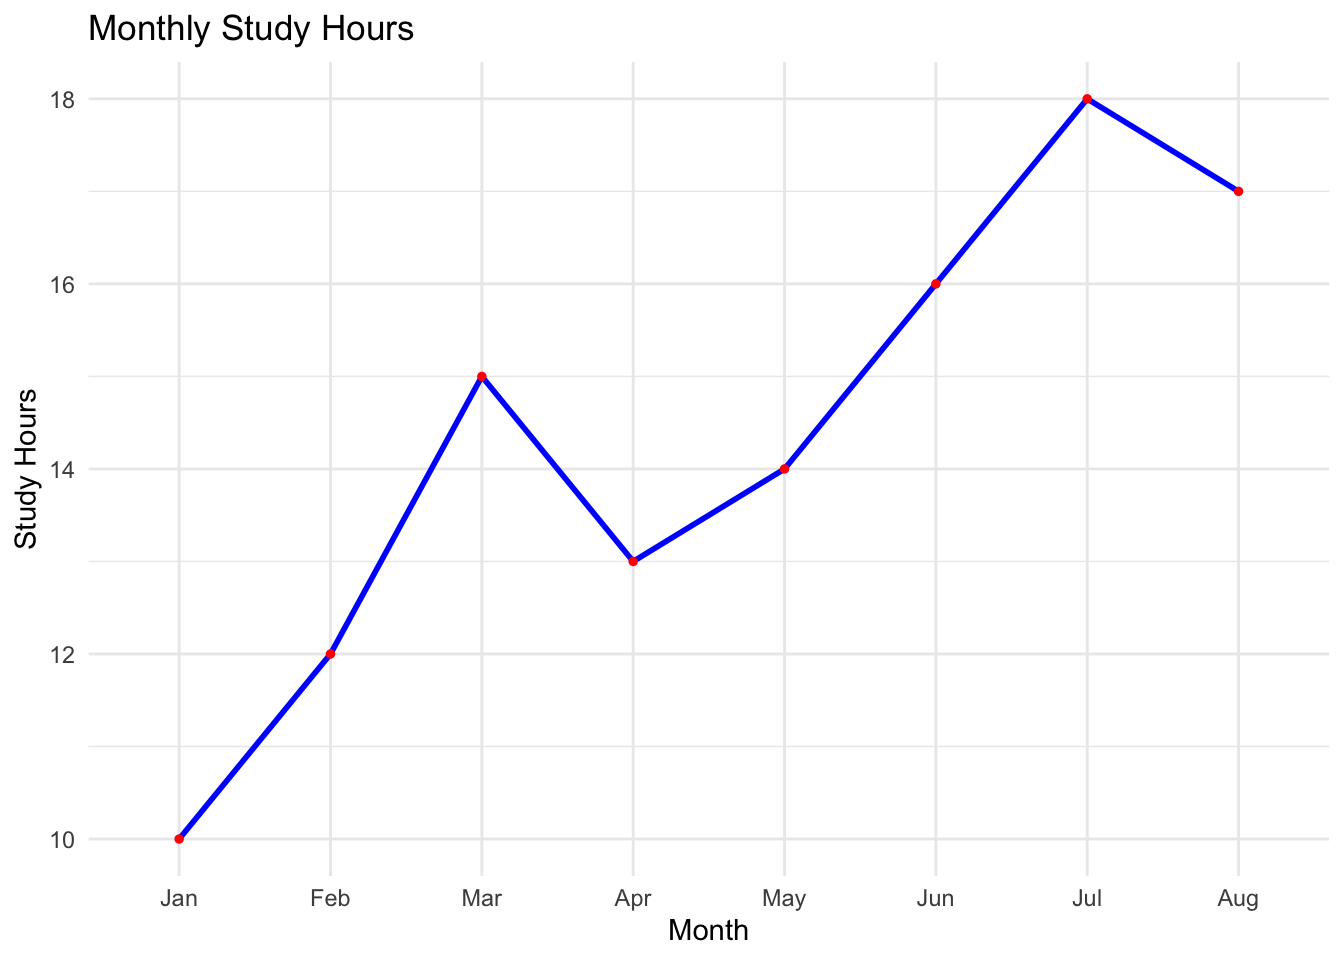
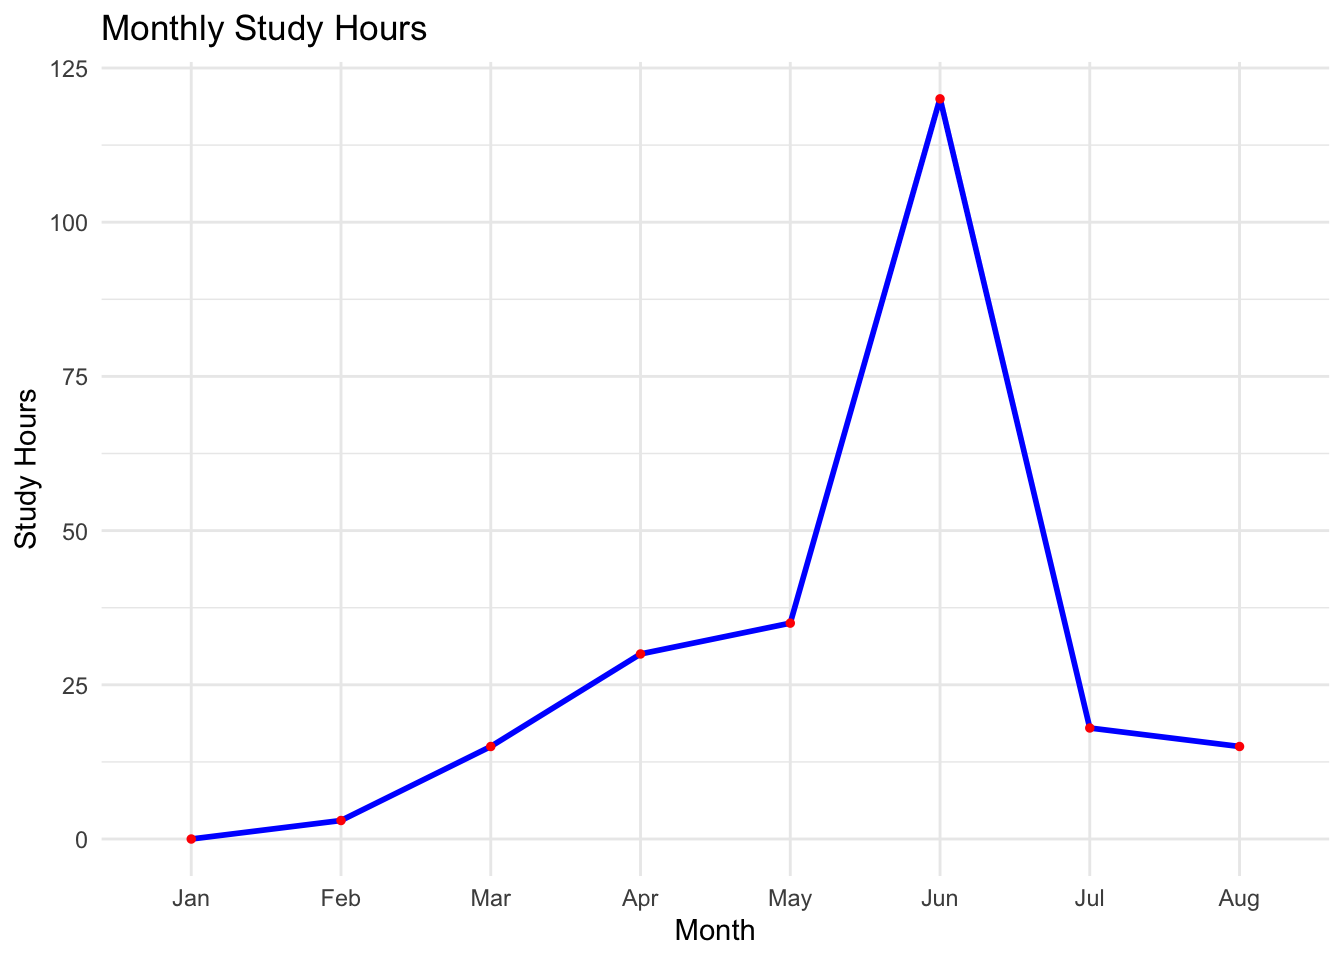
improved example

diff --git a/docs/content/01-content.html b/docs/content/01-content.html
@@ -1424,7 +1424,7 @@ RStudio Workflow Shortcuts
 <div class="cell">
 <div class="sourceCode cell-code" id="cb130"><pre class="sourceCode r code-with-copy"><code class="sourceCode r"><span id="cb130-1"><a href="#cb130-1" aria-hidden="true" tabindex="-1"></a><span class="co"># simulate monthly study hours</span></span>
 <span id="cb130-2"><a href="#cb130-2" aria-hidden="true" tabindex="-1"></a>months <span class="ot">&lt;-</span> <span class="fu">factor</span>(month.abb[<span class="dv">1</span><span class="sc">:</span><span class="dv">8</span>], <span class="at">levels =</span> month.abb[<span class="dv">1</span><span class="sc">:</span><span class="dv">8</span>])</span>
-<span id="cb130-3"><a href="#cb130-3" aria-hidden="true" tabindex="-1"></a>study_hours <span class="ot">&lt;-</span> <span class="fu">c</span>(<span class="dv">10</span>, <span class="dv">12</span>, <span class="dv">15</span>, <span class="dv">13</span>, <span class="dv">14</span>, <span class="dv">16</span>, <span class="dv">18</span>, <span class="dv">17</span>)</span>
+<span id="cb130-3"><a href="#cb130-3" aria-hidden="true" tabindex="-1"></a>study_hours <span class="ot">&lt;-</span> <span class="fu">c</span>(<span class="dv">0</span>, <span class="dv">3</span>, <span class="dv">15</span>, <span class="dv">30</span>, <span class="dv">35</span>, <span class="dv">120</span>, <span class="dv">18</span>, <span class="dv">15</span>)</span>
 <span id="cb130-4"><a href="#cb130-4" aria-hidden="true" tabindex="-1"></a></span>
 <span id="cb130-5"><a href="#cb130-5" aria-hidden="true" tabindex="-1"></a><span class="co"># make data frame</span></span>
 <span id="cb130-6"><a href="#cb130-6" aria-hidden="true" tabindex="-1"></a>study_data <span class="ot">&lt;-</span> <span class="fu">data.frame</span>(<span class="at">Month =</span> months, <span class="at">Study_Hours =</span> study_hours)</span>
@@ -3231,7 +3231,7 @@ window.document.addEventListener("DOMContentLoaded", function (event) {
 <span id="cb173-978"><a href="#cb173-978" aria-hidden="true" tabindex="-1"></a><span class="in">```{r}</span></span>
 <span id="cb173-979"><a href="#cb173-979" aria-hidden="true" tabindex="-1"></a><span class="co"># simulate monthly study hours</span></span>
 <span id="cb173-980"><a href="#cb173-980" aria-hidden="true" tabindex="-1"></a>months <span class="ot">&lt;-</span> <span class="fu">factor</span>(month.abb[<span class="dv">1</span><span class="sc">:</span><span class="dv">8</span>], <span class="at">levels =</span> month.abb[<span class="dv">1</span><span class="sc">:</span><span class="dv">8</span>])</span>
-<span id="cb173-981"><a href="#cb173-981" aria-hidden="true" tabindex="-1"></a>study_hours <span class="ot">&lt;-</span> <span class="fu">c</span>(<span class="dv">10</span>, <span class="dv">12</span>, <span class="dv">15</span>, <span class="dv">13</span>, <span class="dv">14</span>, <span class="dv">16</span>, <span class="dv">18</span>, <span class="dv">17</span>)</span>
+<span id="cb173-981"><a href="#cb173-981" aria-hidden="true" tabindex="-1"></a>study_hours <span class="ot">&lt;-</span> <span class="fu">c</span>(<span class="dv">0</span>, <span class="dv">3</span>, <span class="dv">15</span>, <span class="dv">30</span>, <span class="dv">35</span>, <span class="dv">120</span>, <span class="dv">18</span>, <span class="dv">15</span>)</span>
 <span id="cb173-982"><a href="#cb173-982" aria-hidden="true" tabindex="-1"></a></span>
 <span id="cb173-983"><a href="#cb173-983" aria-hidden="true" tabindex="-1"></a><span class="co"># make data frame</span></span>
 <span id="cb173-984"><a href="#cb173-984" aria-hidden="true" tabindex="-1"></a>study_data <span class="ot">&lt;-</span> <span class="fu">data.frame</span>(<span class="at">Month =</span> months, <span class="at">Study_Hours =</span> study_hours)</span>
